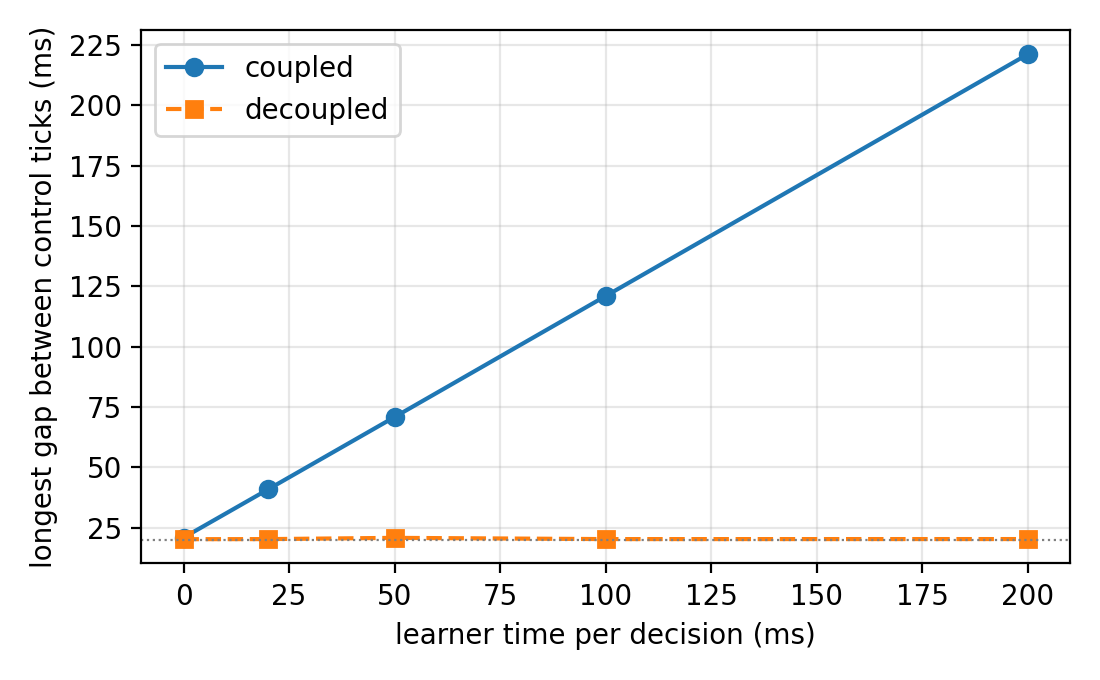
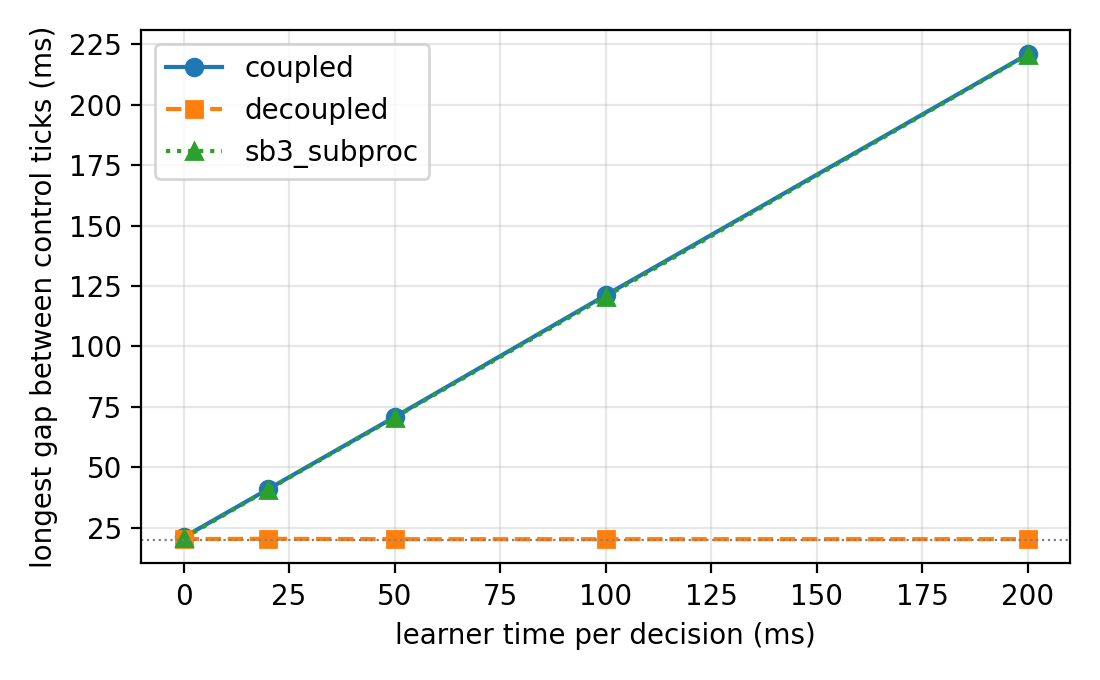
Add an SB3 SubprocVecEnv baseline to the decoupling benchmark
When Stable-Baselines3 is installed, bench_decoupling.py also runs the same
20 ms control loop inside a Gymnasium environment under SubprocVecEnv. The
environment has its own process but runs only inside step(), so its
longest gap grows with the learner time like the coupled agent (20.6 to
220.7 ms, 19 late ticks). It uses the fork start method where available,
because forkserver re-imports torch in every child.

Results, plot, benchmarks/README.md and docs/benchmarks.rst regenerated
from one run of 20 steps per row; the test accepts the optional mode.

diff --git a/benchmarks/bench_decoupling.py b/benchmarks/bench_decoupling.py
@@ -10,6 +10,10 @@ it reports an observation and receives the next action; the learner needs
   not run the control loop meanwhile, as a synchronous Gym environment would.
 - decoupled: the agent polls ``readWhatToDo`` once per control tick, which returns
   at once when nothing has arrived, and keeps the loop running.
+- sb3_subproc (only if Stable-Baselines3 is installed): the same control loop
+  inside a Gymnasium environment run by SB3's ``SubprocVecEnv``. The environment
+  lives in its own process, but it only runs inside ``step()``, so the loop stops
+  while the learner computes, as in the coupled case.
 
 For each learner time it reports the gaps between consecutive control ticks.
 
@@ -18,6 +22,7 @@ Usage: python benchmarks/bench_decoupling.py [--steps 30] [--csv out.csv]
 """
 
 import argparse
+import multiprocessing
 import sys
 import threading
 import time
@@ -92,6 +97,58 @@ def measure(think, coupled, steps):
     return [(b - a) * 1000 for a, b in zip(ticks, ticks[1:])]
 
 
+def measure_sb3_subproc(think, steps):
+    """Gaps in milliseconds of the same loop inside an SB3 ``SubprocVecEnv``."""
+    import gymnasium as gym
+    import numpy as np
+    from stable_baselines3.common.vec_env import SubprocVecEnv
+
+    class ControlLoopEnv(gym.Env):
+        """Runs the control ticks of one RL step inside ``step()``."""
+
+        observation_space = gym.spaces.Box(-1.0, 1.0, shape=(1,), dtype=np.float32)
+        action_space = gym.spaces.Discrete(2)
+
+        def __init__(self):
+            self.ticks = []
+
+        def reset(self, seed=None, options=None):
+            super().reset(seed=seed)
+            return np.zeros(1, dtype=np.float32), {}
+
+        def step(self, action):
+            start = time.perf_counter()
+            while time.perf_counter() - start < RL_STEP_PERIOD:
+                self.ticks.append(time.perf_counter())
+                time.sleep(CONTROL_PERIOD)
+            return np.zeros(1, dtype=np.float32), 0.0, False, False, {}
+
+        def get_ticks(self):
+            return self.ticks
+
+    # fork, where available, reuses the modules already imported (torch takes long
+    # to import again); the environment still runs only inside step().
+    start = "fork" if "fork" in multiprocessing.get_all_start_methods() else None
+    vec = SubprocVecEnv([ControlLoopEnv], start_method=start)
+    try:
+        vec.reset()
+        for _ in range(steps):
+            time.sleep(think)  # stands for the policy and the update
+            vec.step(np.zeros(1, dtype=np.int64))
+        ticks = vec.env_method("get_ticks")[0]
+    finally:
+        vec.close()
+    return [(b - a) * 1000 for a, b in zip(ticks, ticks[1:])]
+
+
+def sb3_available():
+    try:
+        import stable_baselines3  # noqa: F401
+    except ImportError:
+        return False
+    return True
+
+
 def summarize(gaps):
     ordered = sorted(gaps)
     missed = sum(1 for g in gaps if g > 1.5 * CONTROL_PERIOD * 1000)
@@ -115,18 +172,19 @@ def main():
     header = "mode,think_ms,median_gap_ms,p99_gap_ms,max_gap_ms,missed_ticks"
     print(header)
     rows = []
-    for coupled in (True, False):
+    modes = ["coupled", "decoupled"]
+    if sb3_available():
+        modes.append("sb3_subproc")
+    else:
+        print("# Stable-Baselines3 not installed: sb3_subproc skipped")
+    for mode in modes:
         for think in THINK_TIMES:
-            gaps = measure(think, coupled, args.steps)
+            if mode == "sb3_subproc":
+                gaps = measure_sb3_subproc(think, args.steps)
+            else:
+                gaps = measure(think, mode == "coupled", args.steps)
             median, p99, worst, missed = summarize(gaps)
-            row = (
-                "coupled" if coupled else "decoupled",
-                think * 1000,
-                median,
-                p99,
-                worst,
-                missed,
-            )
+            row = (mode, think * 1000, median, p99, worst, missed)
             rows.append(row)
             print("{},{:.0f},{:.1f},{:.1f},{:.1f},{}".format(*row))
     if args.csv:
@@ -145,8 +203,14 @@ def plot(rows, path):
     import matplotlib.pyplot as plt
 
     fig, ax = plt.subplots(figsize=(5.5, 3.4))
-    for mode, style in (("coupled", "o-"), ("decoupled", "s--")):
+    for mode, style in (
+        ("coupled", "o-"),
+        ("decoupled", "s--"),
+        ("sb3_subproc", "^:"),
+    ):
         data = [r for r in rows if r[0] == mode]
+        if not data:
+            continue
         ax.plot([r[1] for r in data], [r[4] for r in data], style, label=mode)
     ax.axhline(CONTROL_PERIOD * 1000, color="gray", linewidth=0.8, linestyle=":")
     ax.set_xlabel("learner time per decision (ms)")

diff --git a/tests/test_benchmarks.py b/tests/test_benchmarks.py
@@ -36,4 +36,5 @@ def test_decoupling_benchmark_reports_both_modes(tmp_path):
 
     assert result.returncode == 0, result.stderr
     modes = {line.split(",")[0] for line in out.read_text().splitlines()[1:]}
-    assert modes == {"coupled", "decoupled"}
+    # sb3_subproc is added only when Stable-Baselines3 is installed.
+    assert {"coupled", "decoupled"} <= modes <= {"coupled", "decoupled", "sb3_subproc"}

diff --git a/benchmarks/README.md b/benchmarks/README.md
@@ -1,7 +1,8 @@
 # Benchmarks
 
 Two scripts that reproduce the timing claims of the library. They use only the
-standard library (the plot of the second one needs Matplotlib) and run on one machine
+standard library (the plot of the second one needs Matplotlib, and its
+Stable-Baselines3 baseline runs only if that package is installed) and run on one machine
 over the loopback interface, so they take about a minute. Absolute numbers depend on
 the machine and the operating system; the shape of the results does not.
 
@@ -9,7 +10,7 @@ From the repository root:
 
 ```bash
 python benchmarks/bench_transport.py --csv benchmarks/results_transport.csv
-python benchmarks/bench_decoupling.py --csv benchmarks/results_decoupling.csv \
+python benchmarks/bench_decoupling.py --steps 20 --csv benchmarks/results_decoupling.csv \
     --plot benchmarks/decoupling.png
 ```
 
@@ -32,26 +33,31 @@ that wait. See `socketcomms/README.md`.
 
 An agent runs a control loop with a period of 20 ms. Every 100 ms it reports an
 observation and receives the next action, which the learner needs a given time to
-produce. Both agents use the library:
+produce. Three agents are compared:
 
 - Coupled: after reporting, the agent waits for the action and does not run its loop,
   as a synchronous Gym environment does.
 - Decoupled: the agent calls `readWhatToDo()` on every tick. It returns at once when
   nothing has arrived, so the loop keeps its period and the action in force is held.
+- SB3 `SubprocVecEnv` (only if Stable-Baselines3 is installed): the same loop inside a
+  Gymnasium environment run by Stable-Baselines3 in its own process. The environment
+  runs only inside `step()`, so moving it to another process does not keep the loop
+  running while the learner computes.
 
 The table gives the longest gap between two consecutive control ticks and the number of
 ticks later than 1.5 periods, over 20 RL steps per row (`results_decoupling.csv`).
 
-| Learner time per decision | Coupled: longest gap (late ticks) | Decoupled: longest gap (late ticks) |
-|---|---|---|
-| 0 ms | 20.9 ms (0) | 20.2 ms (0) |
-| 20 ms | 40.9 ms (19) | 20.3 ms (0) |
-| 50 ms | 70.8 ms (19) | 20.8 ms (0) |
-| 100 ms | 120.9 ms (19) | 20.3 ms (0) |
-| 200 ms | 221.1 ms (19) | 20.3 ms (0) |
+| Learner time per decision | Coupled | Decoupled | SB3 `SubprocVecEnv` |
+|---|---|---|---|
+| 0 ms | 21.0 ms (0) | 20.3 ms (0) | 20.6 ms (0) |
+| 20 ms | 40.9 ms (19) | 20.4 ms (0) | 40.7 ms (19) |
+| 50 ms | 70.8 ms (19) | 20.2 ms (0) | 70.5 ms (19) |
+| 100 ms | 121.2 ms (19) | 20.2 ms (0) | 120.6 ms (19) |
+| 200 ms | 220.9 ms (19) | 20.2 ms (0) | 220.7 ms (19) |
 
-The gap of the coupled agent grows with the learner time, because the loop stops while
-it waits. The decoupled loop keeps its 20 ms period whatever the learner does, which is
+Each cell is the longest gap, with the late ticks in brackets. The gap of the coupled
+agent, and of the same loop under `SubprocVecEnv`, grows with the learner time, because
+the loop stops while it waits. The decoupled loop keeps its 20 ms period whatever the learner does, which is
 what a real robot or a simulator that advances in real time needs. `decoupling.png`
 plots the same data.
 

diff --git a/docs/benchmarks.rst b/docs/benchmarks.rst
@@ -2,7 +2,8 @@ Benchmarks
 ==========
 
 Two scripts in ``benchmarks/`` reproduce the timing claims. They use only the standard
-library and run over the loopback interface. The numbers below were measured on Linux
+library (the Stable-Baselines3 baseline runs only if it is installed) and run over the
+loopback interface. The numbers below were measured on Linux
 6.18 (WSL2) with Python 3.10; absolute values depend on the machine, the shape does not.
 
 Cost of a step
@@ -24,14 +25,17 @@ What decoupling buys
 An agent runs a control loop with a period of 20 ms and reports to the learner every
 100 ms. A coupled agent waits for the next action without running its loop. A decoupled
 agent polls ``readWhatToDo()`` on every tick, which returns at once when nothing has
-arrived. The figure gives the longest gap between two consecutive control ticks as the
+arrived. As a baseline from a widely used library, the same loop also runs inside a
+Gymnasium environment under Stable-Baselines3's ``SubprocVecEnv``: the environment has
+its own process, but it runs only inside ``step()``. The figure gives the longest gap between two consecutive control ticks as the
 learner needs more time per decision.
 
 .. image:: _static/decoupling.png
    :alt: Longest gap between control ticks against learner time per decision.
    :width: 70%
 
-The gap of the coupled agent grows with the learner time. The decoupled loop keeps its
+The gap of the coupled agent, and of the ``SubprocVecEnv`` baseline, grows with the
+learner time. The decoupled loop keeps its
 period whatever the learner does. The benchmark measures the control loop, not learning
 performance, so it does not depend on the algorithm.
 
